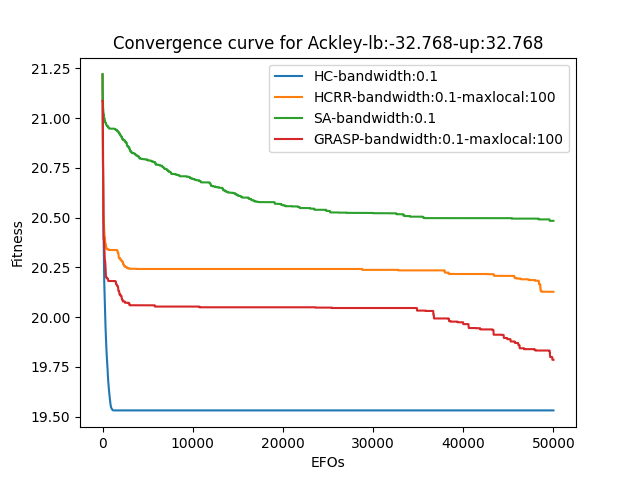
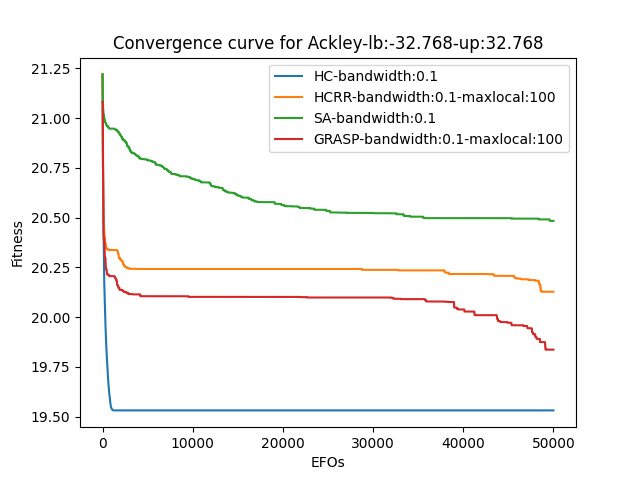
Funciones continuas finalizado

Changed region(s): [[0.1875, 0.5938, 0.875, 0.75], [0.1562, 0.5312, 0.1875, 0.5938]]

diff --git a/Funciones-continuas/main.py b/Funciones-continuas/main.py
@@ -19,16 +19,16 @@ repetitions = 31
 
 # Afinamiento de parametros
 bw = 0.1
-max_local = 101
+max_local = 5000
 
 functions = [sphere(), step(), schwefel(), ackley(), griewank(), rastrigin()]
-functions = [schwefel()]
+#functions = [schwefel()]
 hc = HC(max_efos=max_efos, bandwidth=bw)
 hcrr = HCRR(max_efos=max_efos, max_local=max_local, bandwidth=bw)
 sa = SA(max_efos=max_efos, bandwidth=bw)
 grasp = GRASP(max_local=max_local, max_efos=max_efos, bandwidth=bw)
-#algorithms = [hc, hcrr, sa, grasp]
-algorithms = [grasp]
+algorithms = [hc, hcrr, sa, grasp]
+#algorithms = [grasp]
 
 df = pd.DataFrame({'Problem': pd.Series(dtype='str'),
                    'Average Fitness': pd.Series(dtype='float'),
@@ -45,6 +45,12 @@ df5 = pd.DataFrame({'Problem': pd.Series(dtype='str'),
                    'Average Fitness HCRR': pd.Series(dtype='float'),
                    'Average Fitness SA': pd.Series(dtype='float'),
                    'Average Fitness GRASP': pd.Series(dtype='float')})
+
+df6 = pd.DataFrame({'Problem': pd.Series(dtype='str'),
+                   'Execution Time HC': pd.Series(dtype='float'),
+                   'Execution Time HCRR': pd.Series(dtype='float'),
+                   'Execution Time SA': pd.Series(dtype='float'),
+                   'Execution Time GRASP': pd.Series(dtype='float')})
 
 num_f = 0
 
@@ -130,12 +136,21 @@ for f in functions:
                    'Average Fitness HCRR': str(best_avg_fitness_alg[1]),
                    'Average Fitness SA': str(best_avg_fitness_alg[2]),
                    'Average Fitness GRASP': str(best_avg_fitness_alg[3])}, index=[0])
+
+    new_row6 = pd.DataFrame({'Problem': str(f),
+                    'Execution Time HC': str(alg_avg_time[0]),
+                    'Execution Time HCRR': str(alg_avg_time[1]),
+                    'Execution Time SA': str(alg_avg_time[2]),
+                    'Execution Time GRASP': str(alg_avg_time[3])}, index=[0])
+
     
     df = pd.concat([df.loc[:], new_row]).reset_index(drop=True)
     df2 = pd.concat([df2.loc[:], new_row2]).reset_index(drop=True)
     df3 = pd.concat([df3.loc[:], new_row3]).reset_index(drop=True)
     df4 = pd.concat([df4.loc[:], new_row4]).reset_index(drop=True)
     df5 = pd.concat([df5.loc[:], new_row5]).reset_index(drop=True)
+    df6 = pd.concat([df6.loc[:], new_row6]).reset_index(drop=True)
+
 
 df.to_csv("Funciones-continuas/result/HC" + "-bw-" + str(bw) +
           "-max_local-" + str(max_local) + ".csv", index=False)
@@ -146,4 +161,6 @@ df3.to_csv("Funciones-continuas/result/SA" + "-bw-" + str(bw) +
 df4.to_csv("Funciones-continuas/result/GRASP" + "-bw-" + str(bw) +
            "-max_local-" + str(max_local) + ".csv", index=False)
 df5.to_csv("Funciones-continuas/result/Comparison_dataset" + "-bw-" + str(bw) +
+           "-max_local-" + str(max_local) + ".csv", index=False)
+df6.to_csv("Funciones-continuas/result/Comparison_time" + "-bw-" + str(bw) +
            "-max_local-" + str(max_local) + ".csv", index=False)

diff --git a/Funciones-continuas/solution.py b/Funciones-continuas/solution.py
@@ -31,15 +31,14 @@ class solution:
             fitnessComponent.append(self.function.evaluate(components))
         population = np.c_[fitnessComponent, randomSolutions]
         C_prima = np.copy(population)
-        constructing_solution = []
+        C_sorted = sorted(C_prima, key=lambda x: x[0], reverse=False)
+        C_two_prima = int(len(C_sorted)*0.33)+1                
         for var in range(10):
             if len(C_prima) == 0:
                 break
             else:
-                C_sorted = sorted(C_prima, key=lambda x: x[0], reverse=False)
-                C_two_prima = int(len(C_sorted)*0.33)+1
+                pos = np.random.randint(C_two_prima)                    
                 for i in range (0, 5):
-                    pos = np.random.randint(C_two_prima)
                     s_random_component = C_sorted[pos]
                     dimensions = dimensions + 1
                     S_rand.append(s_random_component[dimensions])
@@ -56,7 +55,7 @@ class solution:
         self.cells[self.cells >self.function.upper_bound] = self.function.upper_bound
         self.fitness = self.function.evaluate(self.cells)   
                      
-    def tweakSegment(self, bandwidth: float, efos):
+    def tweakSegment(self, bandwidth: float,efos):
         bandwidth = bandwidth - 0.0001*efos
         bandwidths = np.random.uniform(low=-bandwidth, high=bandwidth, size=(self.size,))        
         self.cells = self.cells + bandwidths

diff --git a/Funciones-continuas/algorithms/HC.py b/Funciones-continuas/algorithms/HC.py
@@ -1,7 +1,6 @@
 from solution import solution
 import numpy as np
 
-
 class HC:
     def __init__(self, max_efos: int, bandwidth: float):
         self.max_efos = max_efos
